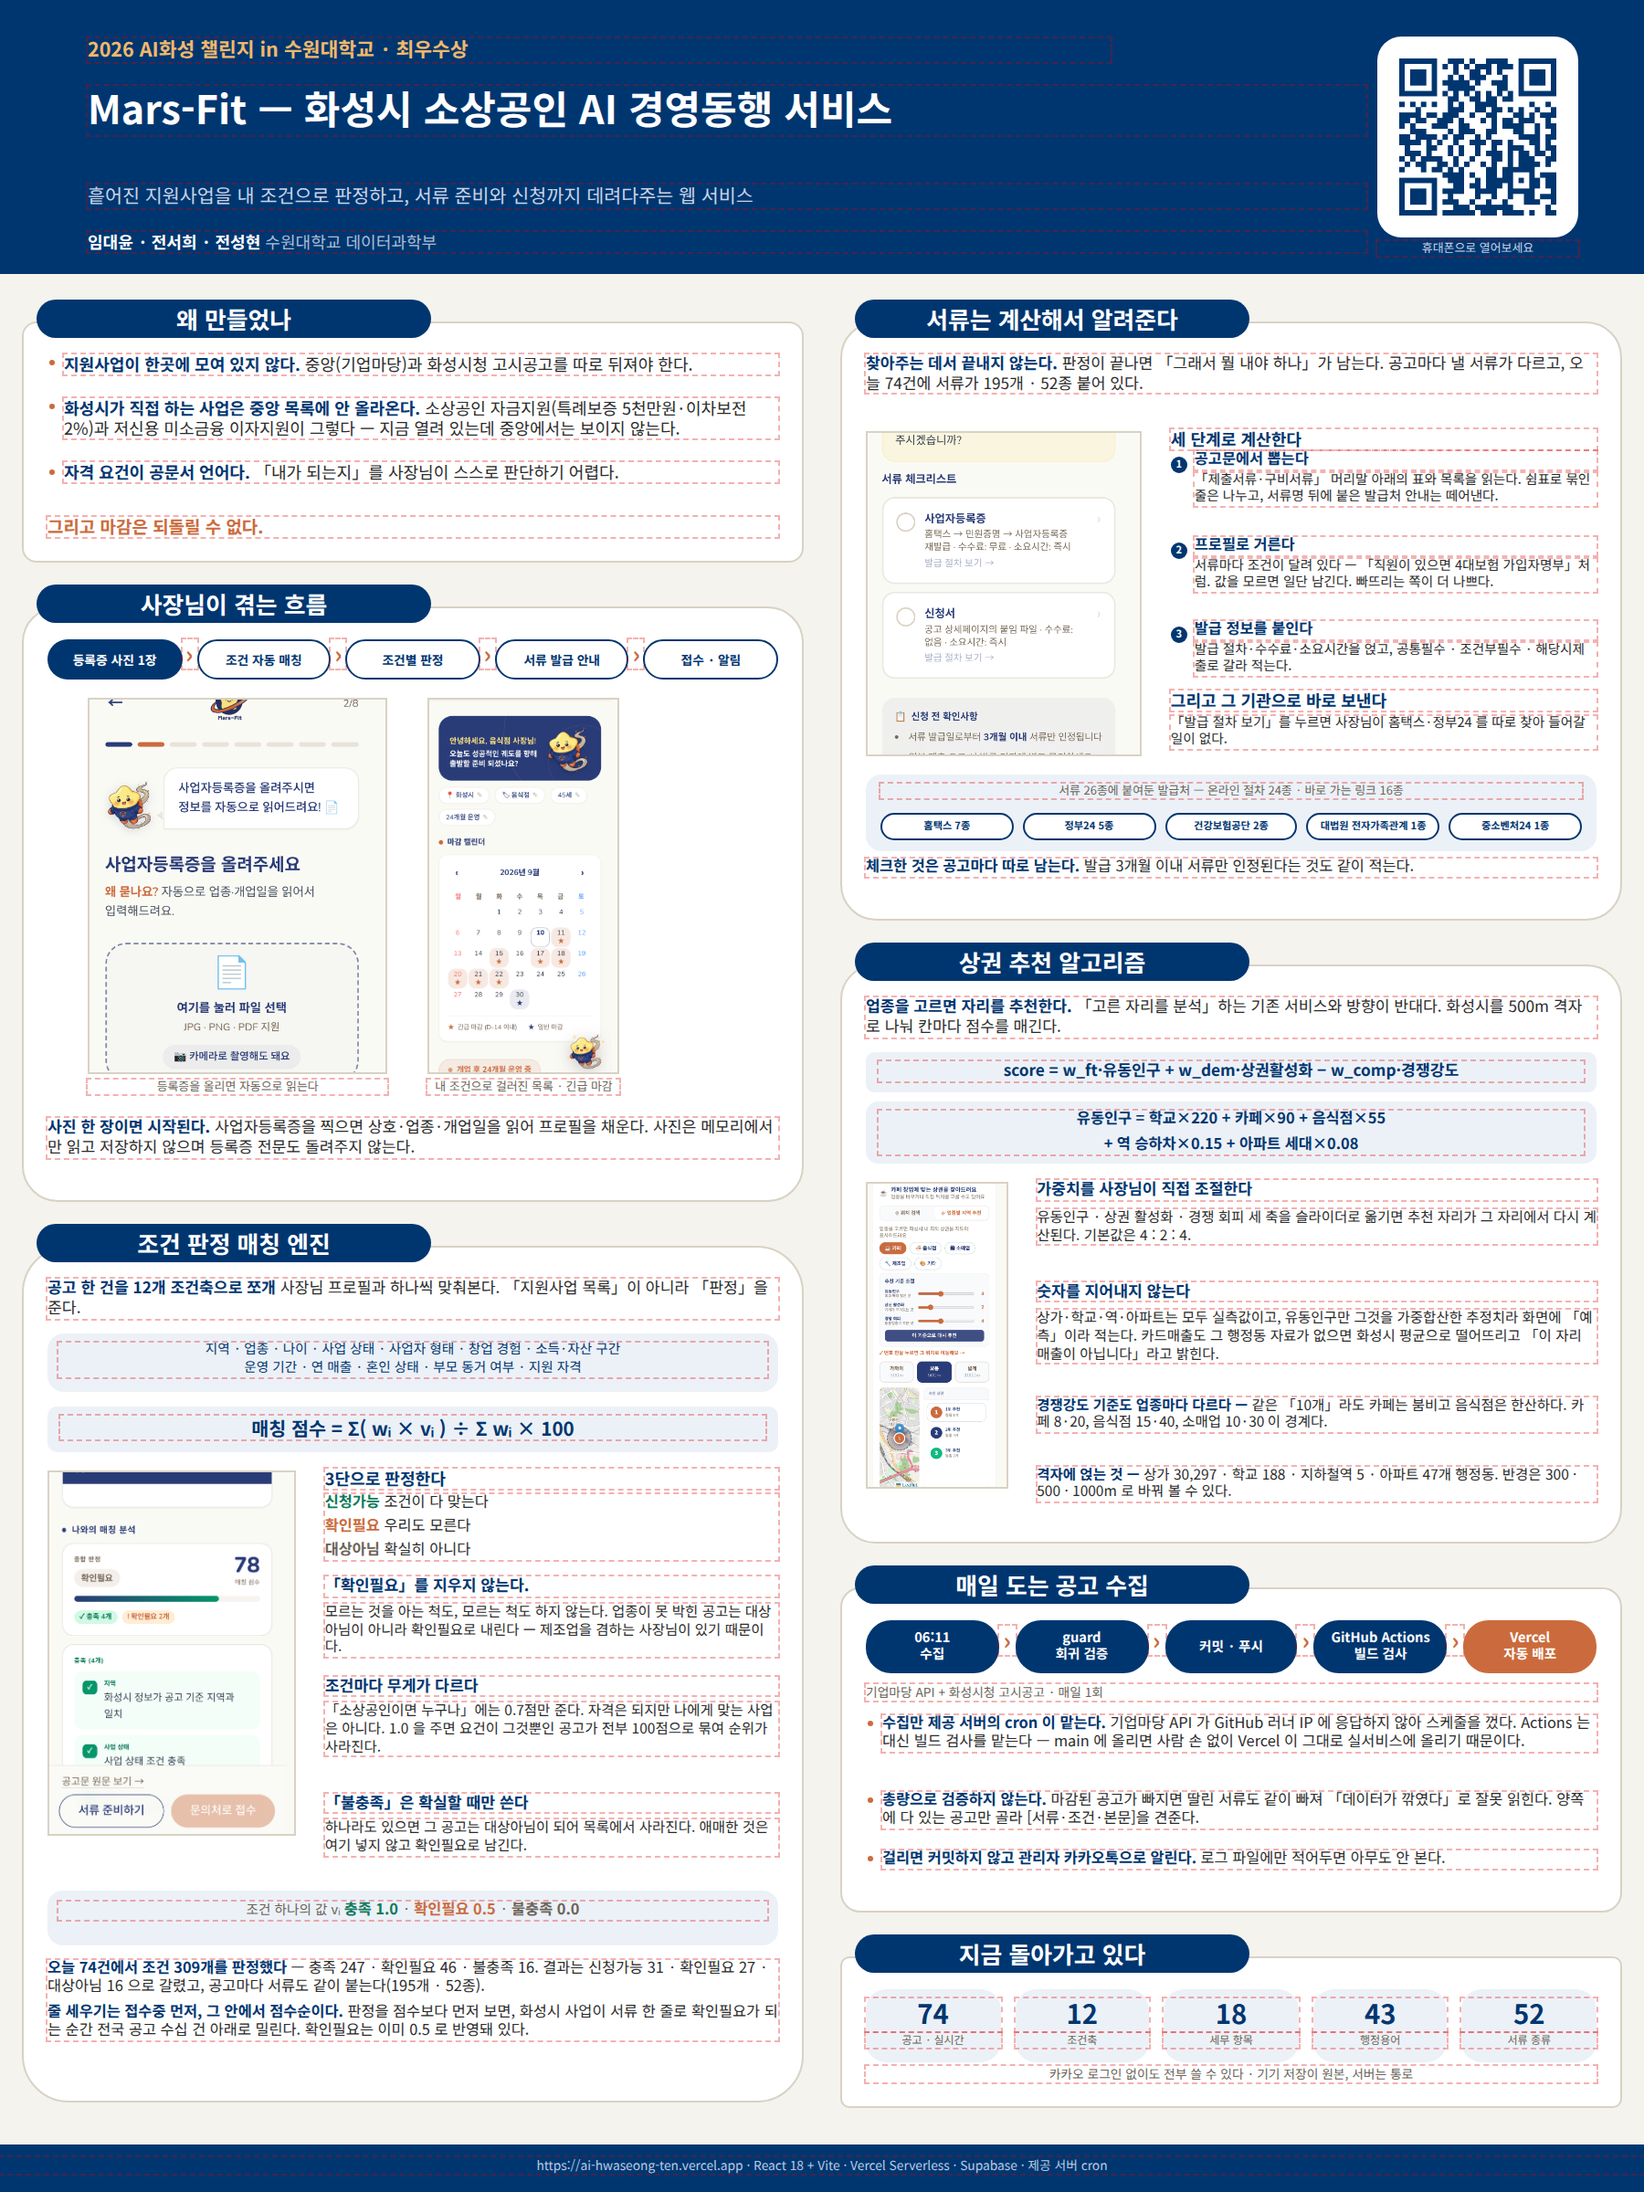
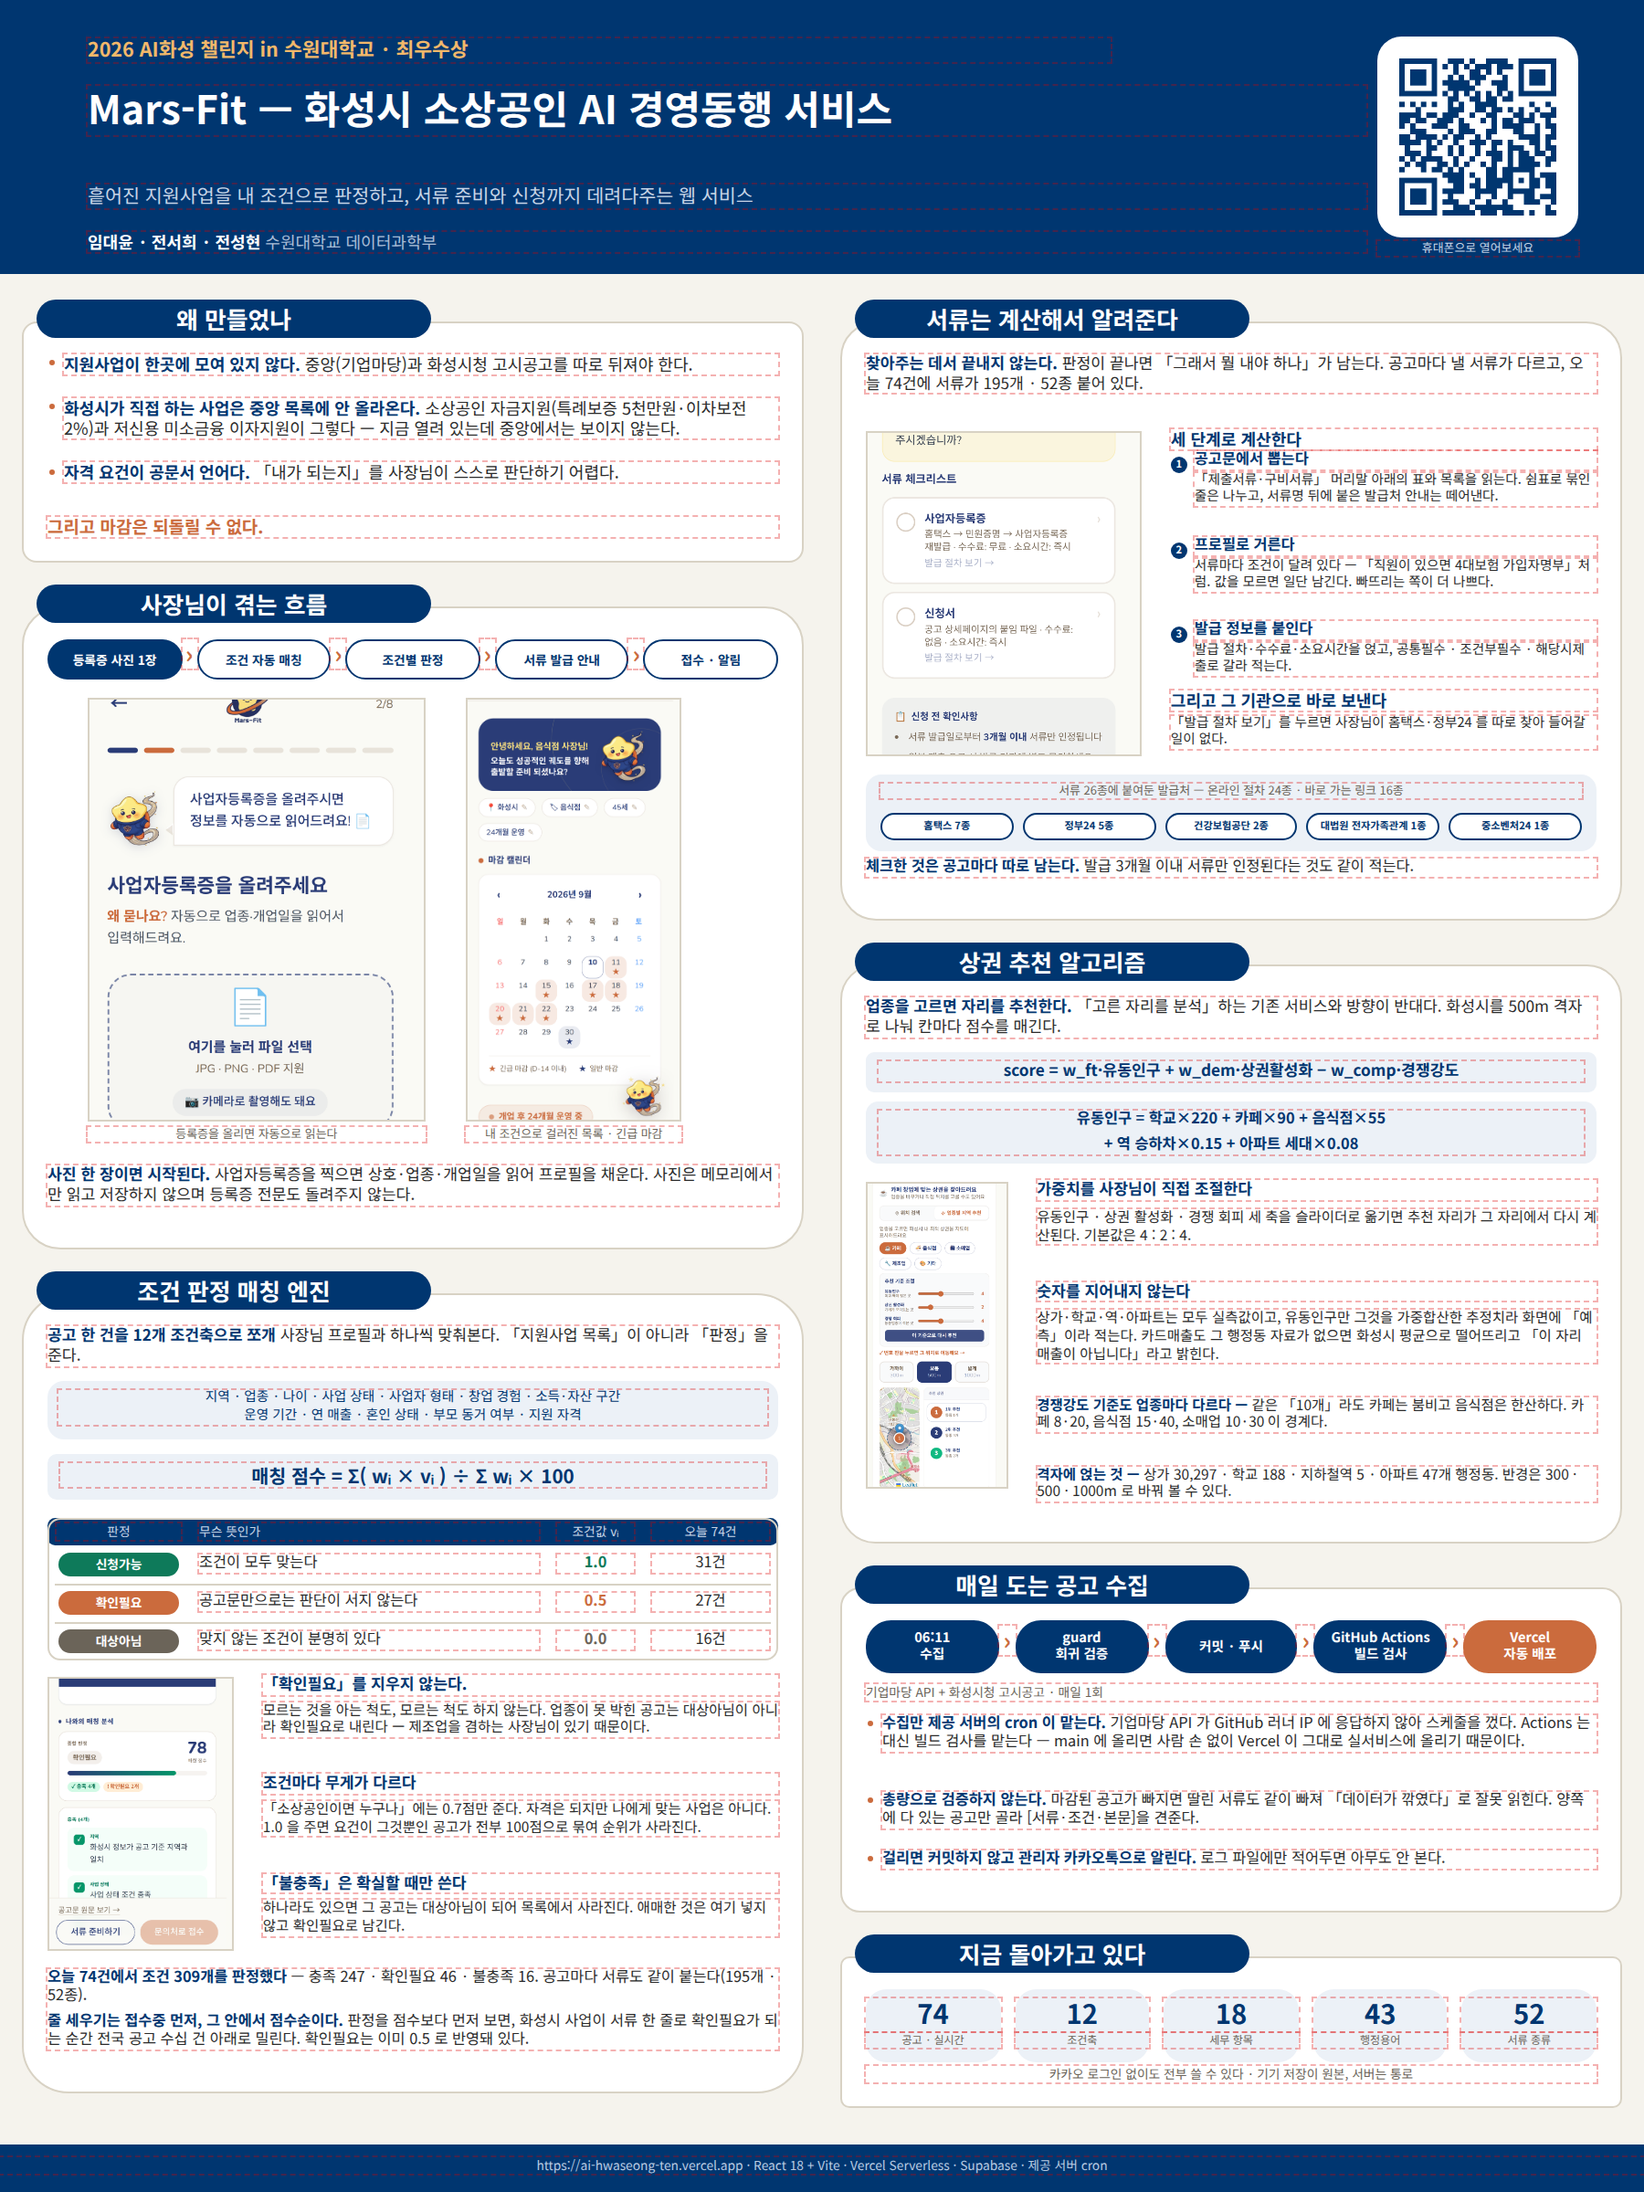
포스터: 3단 판정을 표로 · 흐름 칸과 화살표 비율 조정
「신청가능 · 조건이 다 맞는다 / 확인필요 · 우리도 모른다 / 대상아님 ·
확실히 아니다」를 글줄 셋으로 늘어놓으니 무엇이 무엇에 대응하는지 안
읽혔다. 칸을 그어 표로 만들고, 따로 떠 있던 조건값 vᵢ 띠도 그 안에 합쳤다.

    판정        무슨 뜻인가                     조건값 vᵢ   오늘 74건
    신청가능    조건이 모두 맞는다                 1.0        31건
    확인필요    공고문만으로는 판단이 서지 않는다     0.5        27건
    대상아님    맞지 않는 조건이 분명히 있다         0.0        16건

「우리도 모른다」는 말이 가벼워서 「공고문만으로는 판단이 서지 않는다」로
바꿨다. 무엇 때문에 모르는지가 드러나야 확인필요를 남겨두는 이유도 읽힌다.

표는 수식 바로 아래로 올렸다. 화면 옆에 두었더니 화면이 글보다 길어 오른쪽
아래가 비었다. 순서가 수식 → 판정 표 → 실제 화면 + 원칙이 되어 읽기도 낫다.

칸과 화살표 비율도 손봤다. 글자에 비해 칸이 헐렁하고 화살표가 작아서
「다음 단계로 간다」가 안 읽혔다.

    흐름   칸 27→22mm, 간격 4→8mm
    수집   글자 14→17pt, 칸 34→29mm
    화살표 둘 다 30pt · 주황

남은 자리로 흐름 화면을 206→232mm 로 키웠다.

Claude-Session: https://claude.ai/code/session_016yQbteFFnD149eEDJe1gSv

Changed region(s): [[0.0, 0.3125, 0.4978, 0.9375]]

diff --git a/포스터/poster.py b/포스터/poster.py
@@ -196,6 +196,47 @@ def formula(x, y, w, lines, size=23):
     return y + hh
 
 
+def table(x, y, w, widths, head, rows, size=19, head_size=16):
+    """판정 표. 셀은 str 또는 (str, {서식}).
+
+    글줄 셋을 나란히 늘어놓으면 「판정 이름 / 뜻 / 값 / 건수」가 섞여 읽힌다.
+    칸을 그어야 무엇이 무엇에 대응하는지가 한눈에 잡힌다.
+    """
+    HEAD_H, ROW_H = 15, 21
+    total = sum(widths)
+    xs, acc = [], x
+    for cw in widths:
+        xs.append(acc); acc += cw / total * w
+    xs.append(x + w)
+
+    box(x, y, w, HEAD_H, fill=NAVY, line=None,
+        shape=MSO_SHAPE.ROUNDED_RECTANGLE, adj=0.14)
+    for i, h in enumerate(head):
+        text(xs[i] + 5, y + 3.6, xs[i + 1] - xs[i] - 10, 10, h, size=head_size,
+             color=RGBColor(0xC7, 0xD4, 0xE6),
+             align=PP_ALIGN.LEFT if i == 1 else PP_ALIGN.CENTER)
+
+    cy = y + HEAD_H
+    for r, row in enumerate(rows):
+        if r:
+            box(x + 4, cy, w - 8, 0.4, fill=LINE)
+        for i, cell in enumerate(row):
+            t, o = (cell, {}) if isinstance(cell, str) else cell
+            cw = xs[i + 1] - xs[i]
+            if o.get('pill'):
+                b, rec = box(xs[i] + 6, cy + 4.0, cw - 12, 13, fill=o['pill'],
+                             shape=MSO_SHAPE.ROUNDED_RECTANGLE, adj=0.40)
+                fill_shape(b, rec, [t], 16)
+            else:
+                text(xs[i] + 5, cy + 5.0, cw - 10, 12, t, size=o.get('size', size),
+                     color=o.get('color', INK), bold=o.get('bold', False),
+                     align=PP_ALIGN.LEFT if i == 1 else PP_ALIGN.CENTER)
+        cy += ROW_H
+    box(x, y, w, cy - y, fill=None, line=LINE, lw=1.0,
+        shape=MSO_SHAPE.ROUNDED_RECTANGLE, adj=0.045)
+    return cy
+
+
 def para(x, y, w, lines, size=20, **kw):
     """문단 묶음. 끝 y 를 돌려준다.
 
@@ -283,13 +324,13 @@ for i, st in enumerate(STEPS):
     sx += sw + sgap
 cy += 32
 
-w1 = shot(f"{CROP}/onboard.png", IN_X + 22, cy, 206)
-w2 = shot(f"{CROP}/home_list.png", IN_X + 22 + w1 + 22, cy, 206)
-text(IN_X + 22, cy + 209, w1, 14, '등록증을 올리면 자동으로 읽는다',
+w1 = shot(f"{CROP}/onboard.png", IN_X + 22, cy, 232)
+w2 = shot(f"{CROP}/home_list.png", IN_X + 22 + w1 + 22, cy, 232)
+text(IN_X + 22, cy + 235, w1, 14, '등록증을 올리면 자동으로 읽는다',
      size=15, color=MUTED, align=PP_ALIGN.CENTER)
-text(IN_X + 22 + w1 + 22, cy + 209, w2, 14, '내 조건으로 걸러진 목록 · 긴급 마감',
+text(IN_X + 22 + w1 + 22, cy + 235, w2, 14, '내 조건으로 걸러진 목록 · 긴급 마감',
      size=15, color=MUTED, align=PP_ALIGN.CENTER)
-cy += 230
+cy += 256
 cy = para(IN_X, cy, IN_W, [
     [('사진 한 장이면 시작된다.', {'bold': True, 'color': NAVY}),
      ' 사업자등록증을 찍으면 상호·업종·개업일을 읽어 프로필을 채운다. '
@@ -311,17 +352,19 @@ text(IN_X + 6, cy + 5, IN_W - 12, 24,
      size=17, color=NAVY, align=PP_ALIGN.CENTER, line_sp=1.30, space=0.10)
 cy += 40
 cy = formula(IN_X, cy, IN_W, ['매칭 점수 =  Σ( wᵢ × vᵢ )  ÷  Σ wᵢ  × 100'], size=24) + 10
+cy = table(IN_X, cy, IN_W, [78, 196, 52, 74],
+           ['판정', '무슨 뜻인가', '조건값 vᵢ', '오늘 74건'],
+           [[('신청가능', {'pill': GREEN}), '조건이 모두 맞는다',
+             ('1.0', {'bold': True, 'color': GREEN}), '31건'],
+            [('확인필요', {'pill': ORANGE}), '공고문만으로는 판단이 서지 않는다',
+             ('0.5', {'bold': True, 'color': ORANGE}), '27건'],
+            [('대상아님', {'pill': MUTED}), '맞지 않는 조건이 분명히 있다',
+             ('0.0', {'bold': True, 'color': MUTED}), '16건']]) + 9
 
-sw2 = shot(f"{CROP}/judge.png", IN_X, cy, 200)
+
+sw2 = shot(f"{CROP}/judge.png", IN_X, cy, 150)
 tx, tw = IN_X + sw2 + 16, IN_W - sw2 - 16
 ty = para(tx, cy - 1, tw,
-          [[('3단으로 판정한다', {'bold': True, 'color': NAVY, 'size': 21})]], size=21)
-ty = para(tx, ty + 3, tw, [
-    [('신청가능', {'bold': True, 'color': GREEN}), '  조건이 다 맞는다'],
-    [('확인필요', {'bold': True, 'color': ORANGE}), '  우리도 모른다'],
-    [('대상아님', {'bold': True, 'color': MUTED}), '  확실히 아니다'],
-], size=19, space=0.36)
-ty = para(tx, ty + 9, tw,
           [[('「확인필요」를 지우지 않는다.', {'bold': True, 'color': NAVY})]], size=20)
 ty = para(tx, ty + 4, tw, [
     '모르는 것을 아는 척도, 모르는 척도 하지 않는다. 업종이 못 박힌 공고는 '
@@ -339,21 +382,12 @@ ty = para(tx, ty + 11, tw,
 ty = para(tx, ty + 4, tw, [
     '하나라도 있으면 그 공고는 대상아님이 되어 목록에서 사라진다. '
     '애매한 것은 여기 넣지 않고 확인필요로 남긴다.'], size=18)
-cy = max(cy + 200, ty) + 10
+cy = max(cy + 150, ty) + 10
 
-box(IN_X, cy, IN_W, 30, fill=TINT, line=None,
-    shape=MSO_SHAPE.ROUNDED_RECTANGLE, adj=0.14)
-text(IN_X + 6, cy + 6, IN_W - 12, 20,
-     [[('조건 하나의 값 vᵢ  ', {'color': MUTED, 'size': 17}),
-       ('충족 1.0', {'bold': True, 'color': GREEN}), ('   ·   ', {'color': MUTED}),
-       ('확인필요 0.5', {'bold': True, 'color': ORANGE}), ('   ·   ', {'color': MUTED}),
-       ('불충족 0.0', {'bold': True, 'color': MUTED})]],
-     size=19, color=NAVY, align=PP_ALIGN.CENTER)
-cy += 38
 cy = para(IN_X, cy, IN_W, [
     [('오늘 74건에서 조건 309개를 판정했다', {'bold': True, 'color': NAVY}),
-     ' — 충족 247 · 확인필요 46 · 불충족 16. 결과는 신청가능 31 · 확인필요 27 · '
-     '대상아님 16 으로 갈렸고, 공고마다 서류도 같이 붙는다(195개 · 52종).'],
+     ' — 충족 247 · 확인필요 46 · 불충족 16. 공고마다 서류도 같이 붙는다'
+     '(195개 · 52종).'],
     [('줄 세우기는 접수중 먼저, 그 안에서 점수순이다.', {'bold': True, 'color': NAVY}),
      ' 판정을 점수보다 먼저 보면, 화성시 사업이 서류 한 줄로 확인필요가 되는 순간 '
      '전국 공고 수십 건 아래로 밀린다. 확인필요는 이미 0.5 로 반영돼 있다.'],
